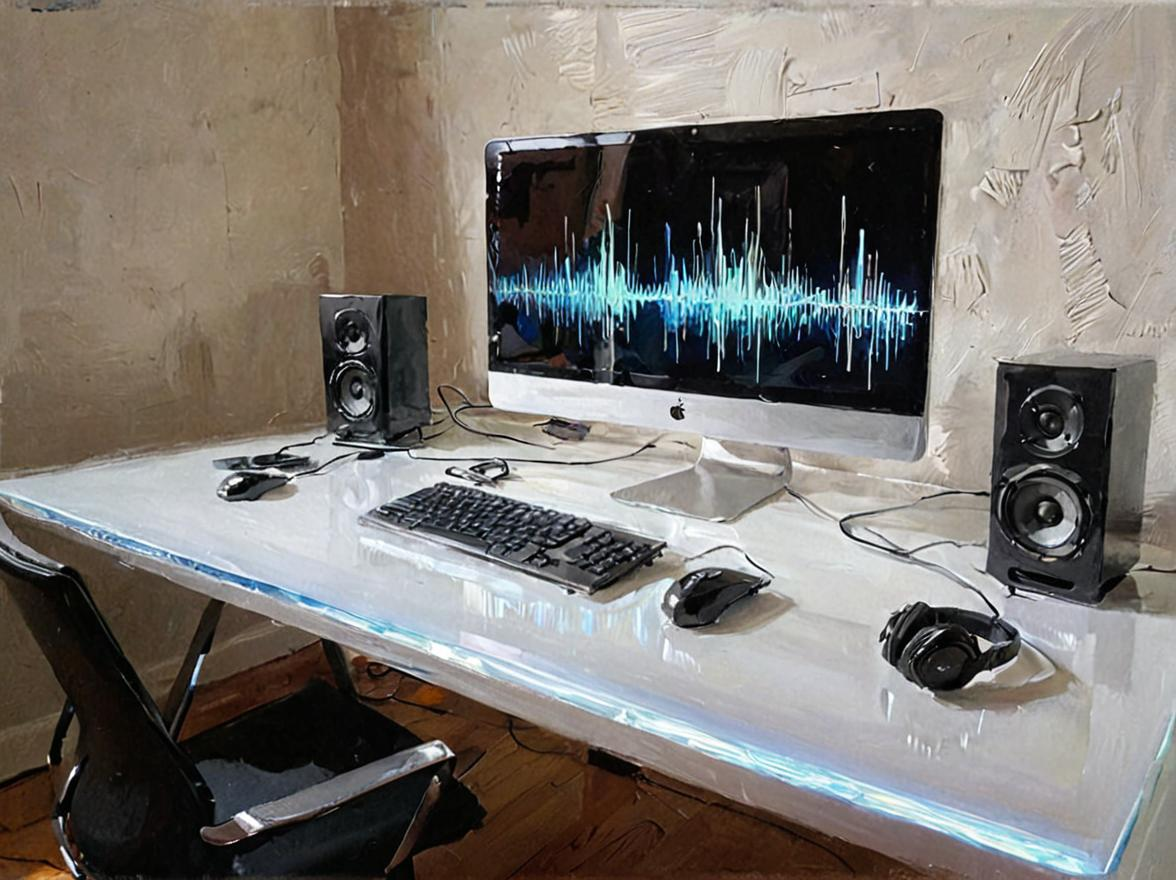
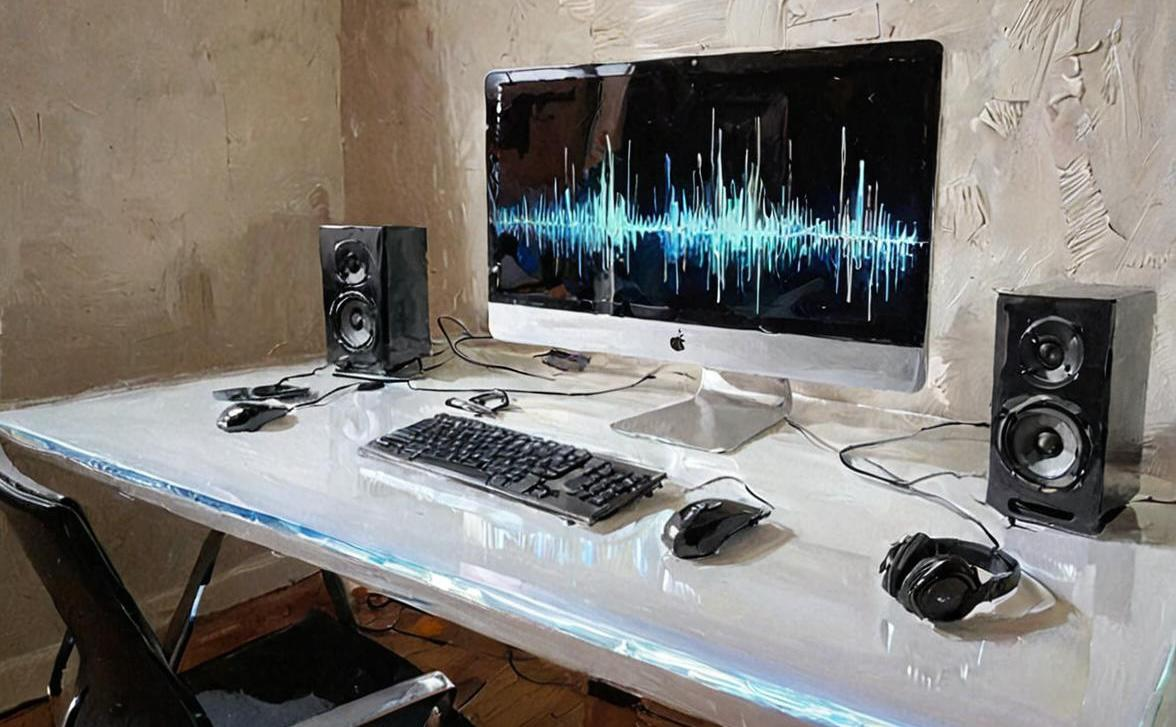
docs: refine README for clarity on installation and engine behavior
* update chaud.jpg to match new aspect-ratio
* apply readme-shine to improve content

diff --git a/knowledge/pages/general/README.md b/knowledge/pages/general/README.md
@@ -3,89 +3,143 @@ id: readme
 tags: ''
 -->
 
-# Change Audio (chaud)
+# chaud
+
+> Switch your Mac's microphone and speakers together with one short command, like `chaud phone`.
 
 ![chaud](../../images/chaud.jpg)
 
-A configurable, command-line tool to easily switch between different audio configurations. This is different from other solutions because you create names (and aliases) that represent input/output configurations.
+## Summary
 
-## Usage
+On a Mac, moving from a headset call to speakerphone means two trips into Sound settings: one for the input, one for the output. **chaud** (change audio) lets you name those pairings once, give them short aliases, and switch with a single command. Each named option can set the input, the output, or both, adjust the output level, and run your own shell commands, for example pausing music when you pick up a call. It is a thin Bash and PHP layer over existing macOS audio switchers, so the operating system still does the actual switching, and the switch commands are generated once and cached so each switch runs quickly.
 
-These two commands will change the audio configuration between _Phone_ and _Speakerphone_.
+## Quick Start
+
+Install into `~/opt/chaud`, add the default audio engine, and link the command onto your `$PATH` (this assumes `~/bin` is on it):
+
+```shell
+mkdir -p ~/opt && cd ~/opt
+{{ composer.create_project|raw }}
+cd chaud && npm install
+ln -s ~/opt/chaud/chaud ~/bin/chaud
+```
+
+Print the configuration file's path. The first run creates it from the defaults:
+
+```
+$ chaud -c
+✏ /Users/you/.chaud.json
+```
+
+List the devices on your Mac with `chaud -a` (this needs the default engine you just installed), put their names into the two example options in that file, then switch:
 
 ```
 $ chaud phone
 Phone is active (🎤 External Microphone  🔈 External Headphones)
-$ chaud speakerphone
+$ chaud sp
 Speakerphone is active (🎤 MacBook Pro Microphone  🔈 MacBook Pro Speakers)
-```
-
-See all available devices with `chaud -a`
-You may list your configured options with `chaud -l`
-
-To save keystrokes you can assign aliases, such as:
-
-```
-$ chaud p
-Phone is active (🎤 External Microphone  🔈 External Headphones)
 ```
 
 ## Requirements
 
-* BASH
-* PHP
-* Yarn or NPM (For default audio engine)
+- macOS. Every supported audio engine is a macOS tool.
+- Bash, PHP 7.4 or newer with the `json` extension, and Composer.
+- One audio engine (see [Installation](#installation)). The default engine needs Node.js with npm or Yarn.
 
-## Install
+## Installation
 
-* In terminal, change to your preferred installation location.
-* `{{ composer.create_project|raw }}`
-* Assuming `~/bin` is in your `$PATH` variable, create a symlink to wherever you've installed this app.
-  ```shell
-  cd ~/bin
-  ln -s ~/opt/chaud/chaud .
-  ```
-
-### Audio Engine
-
-The easiest engine to get working on OS X, is done like this:
+chaud is installed from its GitHub repository, <https://github.com/aklump/chaud>. In a terminal, change to where you want the app to live (the examples use `~/opt`), then install it with Composer:
 
 ```shell
-cd ./chaud
-yarn add macos-audio-devices@^1.0
+{{ composer.create_project|raw }}
 ```
 
-## Configure
+This creates a `chaud` folder. Link its `chaud` script into a directory on your `$PATH`, such as `~/bin`:
 
-* Execute `chaud -c` to print the configuration filepath.
-* Open and modify the configuration.
-* A single option may be defined as:
-    * input & output
-    * input only
-    * output only
+```shell
+cd ~/bin
+ln -s ~/opt/chaud/chaud .
+```
+
+### Audio engine
+
+chaud looks for an engine in the following order and uses the first one it finds. The order is fixed; no setting prefers a different engine when more than one is installed.
+
+1. [macos-audio-devices](https://github.com/karaggeorge/macos-audio-devices), the default, and the only engine that can set output levels or list your devices. It is declared in `package.json`, so run `npm install` (or `yarn install`) inside the `chaud` folder.
+2. [switchaudio-osx](https://github.com/deweller/switchaudio-osx), when its `SwitchAudioSource` command is on your `$PATH`.
+3. [SwitchAudio](https://www.macscripter.net/t/switchaudio-a-command-line-tool-to-change-the-audio-input-and-output-device/75630/1), when it is installed as an executable at `~/bin/SwitchAudio`.
+
+Only macos-audio-devices can list your devices. Under either of the other two, `chaud -a` prints nothing at all rather than saying it cannot list them, so you will need the device names from System Settings.
+
+### Alfred workflow
+
+The repository also holds `Change Audio.alfredworkflow`. Double-click it to add the workflow to [Alfred](https://www.alfredapp.com), then type `chaud` followed by a label or alias to switch without opening a terminal. The workflow runs `~/bin/chaud`, so it expects the symlink above at exactly that path.
+
+### Updating
+
+Delete the `chaud` folder you installed earlier, then repeat the installation, including the audio engine. Your configuration lives in your home directory, so deleting the folder does not remove it.
+
+## Configuration
+
+Run `chaud -c` to print the configuration file's path, which is `~/.chaud.json`. If the file does not exist, chaud creates it from the defaults shown below. Open it and edit the `options` list, which needs at least two entries.
 
 ```
 {{ example_config|raw }}
 ```
 
-## How to Update
+Each option takes these keys:
 
-* Delete the _chaud_ folder that was previously installed.
-* Repeat the installation process.
-* Be sure to install the audio engine as well.
+- `label` (required) is the name you type, matched case-insensitively. A label with spaces, such as `Desk Setup`, is typed quoted (`chaud "desk setup"`) or with underscores (`chaud desk_setup`).
+- `aliases` are shorter names for the same option.
+- `input` and `output` each take a `device` (the name shown by `chaud -a`) and an optional `level` from 0 to 1. An option needs at least one of the two; leave one out to change only the other. Only the macos-audio-devices engine applies `level`, and only to the output; a `level` on `input` is accepted but ignored.
+- `scripts` are shell commands run after the switch. The default config's `nowplaying-cli pause` needs [nowplaying-cli](https://github.com/kirtan-shah/nowplaying-cli), which you install separately; remove that line if you don't use it. If a script fails, chaud reports it and exits with status 1.
 
-## Troubleshooting
+A `device` may also be the device's number rather than its name, but macOS reassigns those numbers when the computer restarts, so names are the safer choice.
 
-* Sometimes you might need to *refresh the device* list by running `chaud -c`, which is the command for showing the configuration file. This command reloads system audio information as well. You may combine this flag with device assigment into one command, e.g., `chaud -c phone`.
-* In my testing not all audio devices support level control. That may be a shortcoming of the engine, or the device, I'm not sure.
+The file is validated against `json_schema/config.schema.json` before it is cached. A file that does not fit the schema stops the switch and prints what is wrong:
 
-## Audio Engines
+```
+❌ Invalid configuration:
+⚠ "/options" -- Array should have at least 2 items, 1 found
+```
 
-This is a BASH and PHP wrapper around several known audio engines, which do the heavy lifting in the operating system.  **The [default engine](https://github.com/karaggeorge/macos-audio-devices) is installed as a Node package.**
+chaud caches the configuration and the generated switch commands in `$TMPDIR/com.aklump.chaud`. Run `chaud -c` after editing the file or connecting a new device to rebuild the cache. To skip the cache entirely, set `ENABLE_CACHE=false` at the top of the `chaud` script; every run then rereads the configuration and the device list, which is slower but always current. The setting lives in the installed script, so reinstalling or updating resets it to `true`.
 
-* https://github.com/karaggeorge/macos-audio-devices
-* https://github.com/deweller/switchaudio-osx
-* https://github.com/hladik-dan/switch-audio?ref=iosexample.com
-* https://retina.studio/ears/download/ [not yet implemented]
+## Usage
+
+```
+chaud <label-or-alias>    switch to a configured option
+chaud -l                  list your configured options and their aliases
+chaud -a                  list every audio device (macos-audio-devices engine only)
+chaud -c                  print the configuration path and rebuild the cache
+chaud -c <label-or-alias> rebuild the cache, then switch
+chaud <label> -v          switch, and print the cache file and function used
+```
+
+Listing your options shows each label with its aliases beneath it:
+
+```
+$ chaud -l
+🔹 Phone
+     p
+🔹 Speakerphone
+     sp
+```
+
+If a name matches nothing, chaud says so and suggests the nearest match:
+
+```
+$ chaud sonyy
+❌ Unknown audio configuration: sonyy
+🤔 Did you mean "Sony bluetooth headphones"? (chaud -l)
+```
+
+When a Bluetooth device was disconnected at the time the cache was built, options that use it are left out; reconnect it and run `chaud -c <name>` to rebuild and switch in one step. Not every device responds to level control, so a configured `level` may have no effect on some hardware.
+
+## Support
 
 {{ funding|raw }}
+
+## License
+
+[BSD-3-Clause](../../../LICENSE)
